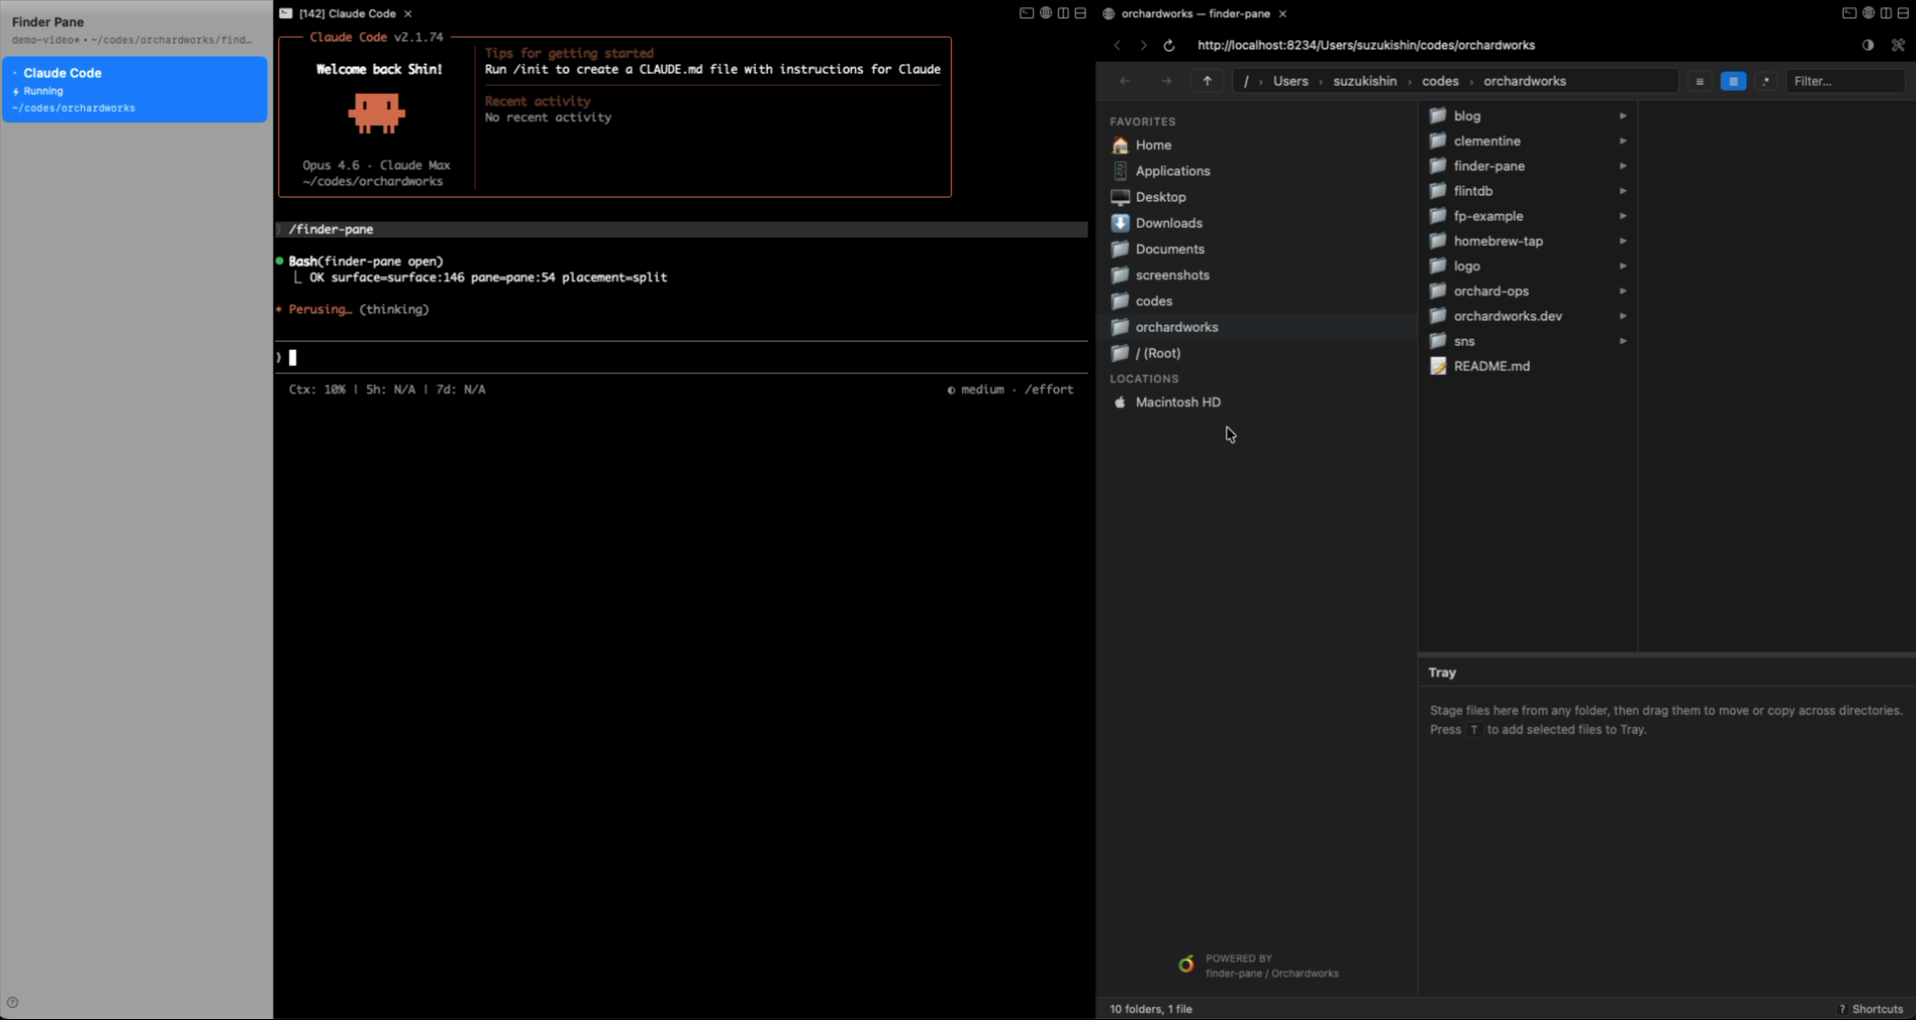
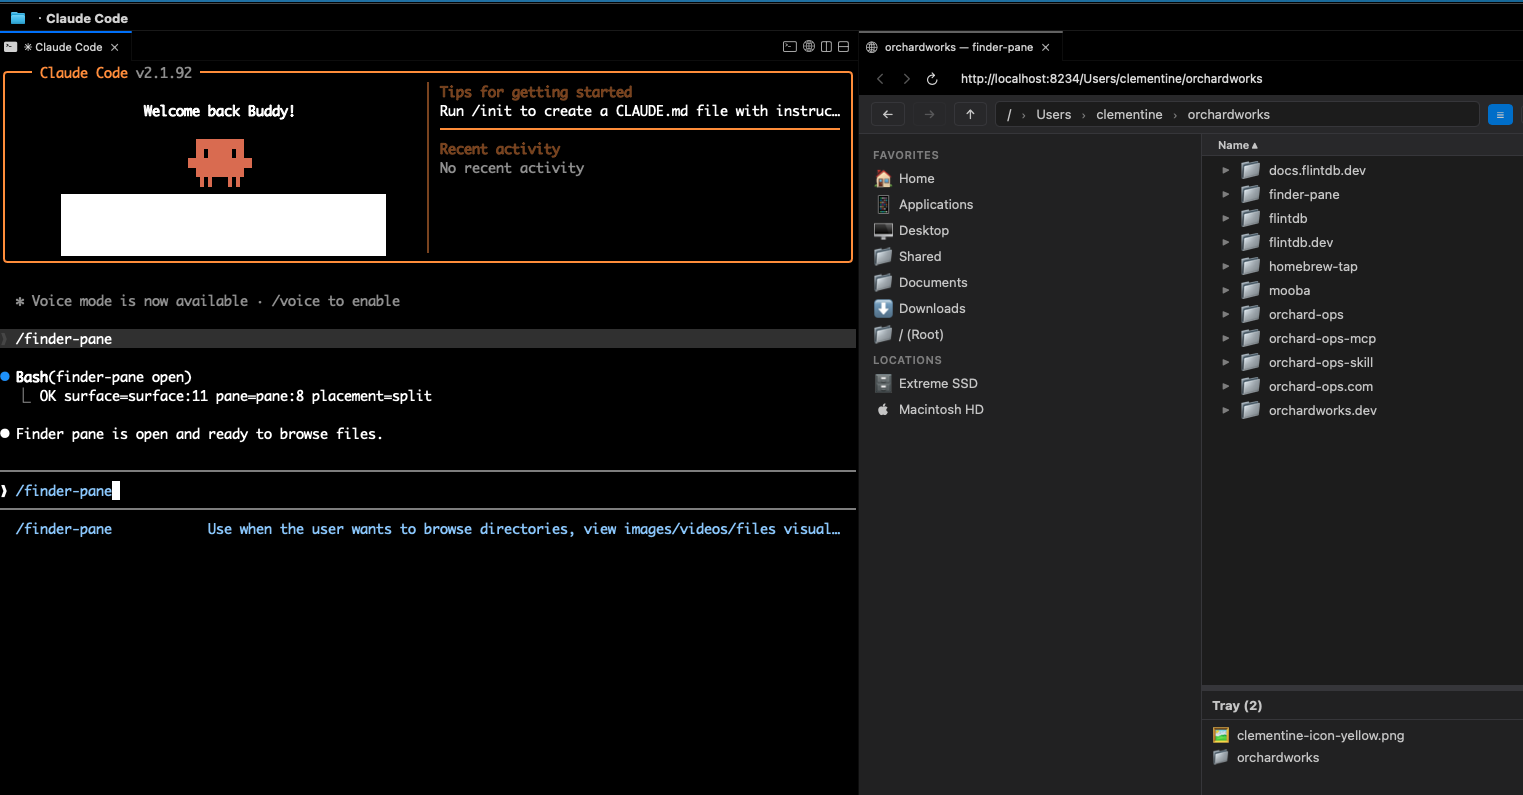
Update Finder Pane screenshots and consolidate preview images
Replace hero screenshot and merge image-preview.png + markdown-preview.png
into a single preview.png, updating the HTML accordingly.

diff --git a/finder-pane/index.html b/finder-pane/index.html
@@ -388,13 +388,8 @@
           Click a file to preview it inline. Images, videos, Markdown, PDF, HTML &mdash; no need to open another app.
           Great for checking generated images, reading docs, or reviewing video output without leaving your workflow.
         </div>
-        <div class="feature-media-grid">
-          <div class="feature-media">
-            <img src="image-preview.png" alt="Image preview in finder-pane" class="zoomable">
-          </div>
-          <div class="feature-media">
-            <img src="markdown-preview.png" alt="Markdown preview in finder-pane" class="zoomable">
-          </div>
+        <div class="feature-media">
+          <img src="preview.png" alt="File preview in finder-pane" class="zoomable">
         </div>
       </div>
 
@@ -450,6 +445,22 @@
           </div>
         </div>
       </div>
+    </div>
+
+    <div class="setup" style="margin-bottom: 1.5rem;">
+      <h2>Full Disk Access</h2>
+      <p style="font-size: 0.9rem; color: #556677; line-height: 1.65; margin-top: 0.5rem;">
+        To browse <code style="font-family: 'SF Mono', Menlo, monospace; font-size: 0.825rem; background: #eef3f9; padding: 0.15em 0.4em; border-radius: 4px; color: #1a5a96;">~/Documents</code>,
+        <code style="font-family: 'SF Mono', Menlo, monospace; font-size: 0.825rem; background: #eef3f9; padding: 0.15em 0.4em; border-radius: 4px; color: #1a5a96;">~/Downloads</code>,
+        <code style="font-family: 'SF Mono', Menlo, monospace; font-size: 0.825rem; background: #eef3f9; padding: 0.15em 0.4em; border-radius: 4px; color: #1a5a96;">~/Desktop</code>,
+        and other protected directories, grant <strong>Full Disk Access</strong> to cmux:
+      </p>
+      <p style="font-size: 0.9rem; color: #1a3a5c; font-weight: 600; margin-top: 0.75rem;">
+        System Settings &rarr; Privacy &amp; Security &rarr; Full Disk Access &rarr; add cmux
+      </p>
+      <p style="font-size: 0.8rem; color: #8899aa; margin-top: 0.5rem;">
+        Without this, macOS will block access and those directories will appear empty or return permission errors.
+      </p>
     </div>
 
     <div class="badges">
